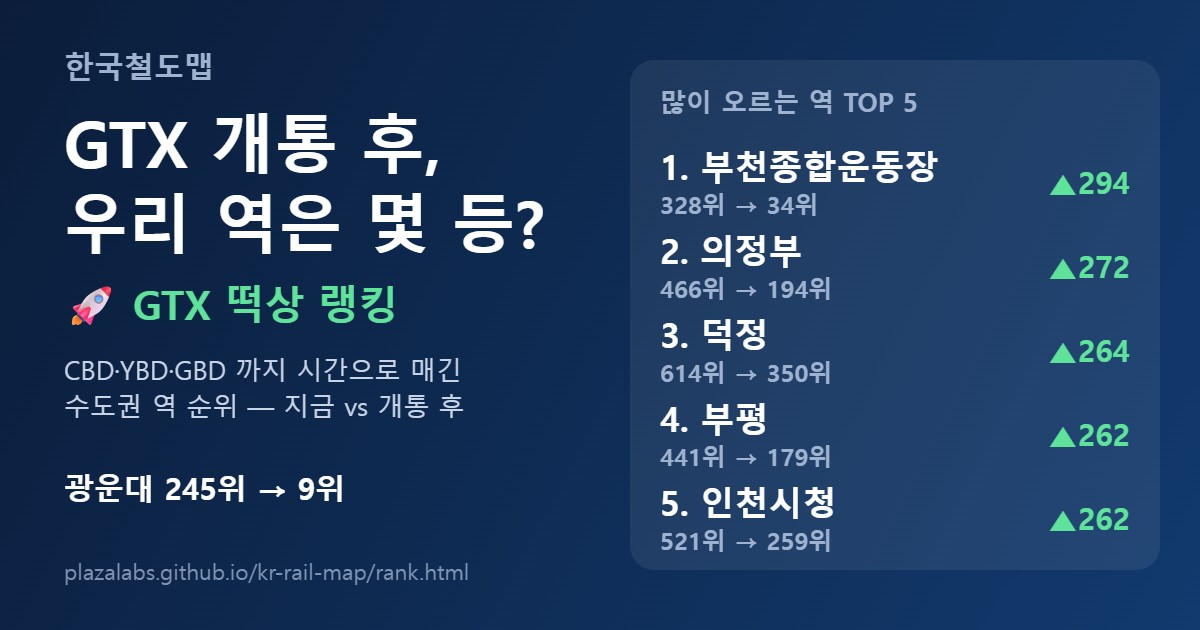
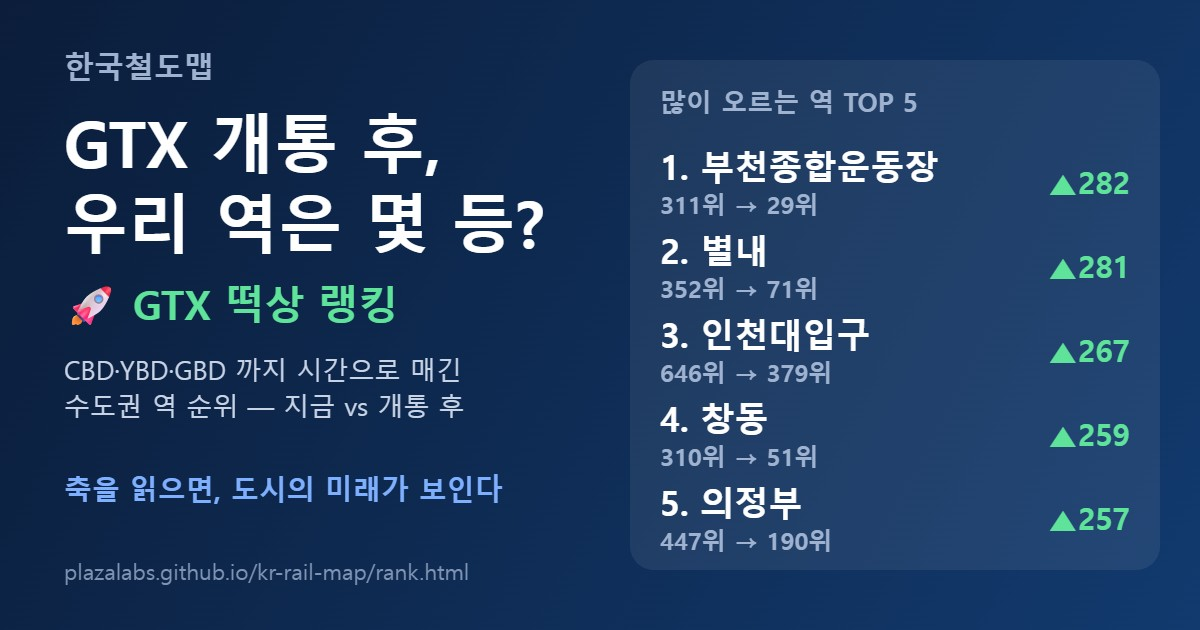
fix: 미리보기 그림(og-rank)에서 광운대 고정 표시 빼고 슬로건 · 휴대폰 노선도 막대 '닫기' 화면 밖 → 줄바꿈 · 떡상 시트 측정은 모션 끝난 뒤 (캐시 v187)
Claude-Session: https://claude.ai/code/session_0191yEh3WGepUkizwUamxitS

diff --git a/data/build_og_rank.js b/data/build_og_rank.js
@@ -15,17 +15,17 @@ const RT = require(path.join(ROOT, 'js/rank.js'));
 const doc = JSON.parse(fs.readFileSync(path.join(ROOT, 'data/rank.json'), 'utf8'));
 const c = RT.compute(doc, { weight: 'avg', region: 'capital' });
 const top = RT.sortRows(c.rows, 'rise').filter(r => !r.isNew).slice(0, 5).map(r => ({ n: r.name, a: r.now.rank, b: r.aft.rank, d: r.change }));
-const kw = c.rows.find(r => r.name === '광운대');
+// 특정 역을 앞세우지 않는다(중립, 2026-11-14) — 예전엔 광운대 한 역을 크게 보여 줬다. 그 자리에 슬로건
 
 const html = `<!doctype html><meta charset="utf-8"><body style="margin:0"><canvas id="c" width="1200" height="630"></canvas><script>
-const T = ${JSON.stringify(top)}, K = ${JSON.stringify(kw ? { a: kw.now.rank, b: kw.aft.rank } : null)};
+const T = ${JSON.stringify(top)};
 const g = document.getElementById('c').getContext('2d'), F = '"Malgun Gothic","Apple SD Gothic Neo",sans-serif';
 const bg = g.createLinearGradient(0, 0, 1200, 630); bg.addColorStop(0, '#0b1d3a'); bg.addColorStop(1, '#123a6e'); g.fillStyle = bg; g.fillRect(0, 0, 1200, 630);
 g.fillStyle = '#9fb3d1'; g.font = '600 30px ' + F; g.fillText('한국철도맵', 64, 78);
 g.fillStyle = '#fff'; g.font = '800 64px ' + F; g.fillText('GTX 개통 후,', 64, 168); g.fillText('우리 역은 몇 등?', 64, 248);
 g.fillStyle = '#5fe39a'; g.font = '800 40px ' + F; g.fillText('🚀 GTX 떡상 랭킹', 64, 320);
 g.fillStyle = '#c8d3e6'; g.font = '500 26px ' + F; g.fillText('CBD·YBD·GBD 까지 시간으로 매긴', 64, 380); g.fillText('수도권 역 순위 — 지금 vs 개통 후', 64, 416);
-if (K) { g.fillStyle = '#fff'; g.font = '700 30px ' + F; g.fillText('광운대 ' + K.a + '위 → ' + K.b + '위', 64, 500); }
+g.fillStyle = '#7fb0ff'; g.font = '700 28px ' + F; g.fillText('축을 읽으면, 도시의 미래가 보인다', 64, 500);
 g.fillStyle = '#7f93b3'; g.font = '500 22px ' + F; g.fillText('plazalabs.github.io/kr-rail-map/rank.html', 64, 580);
 // 오른쪽: 많이 오르는 TOP 5
 const X = 660; g.fillStyle = 'rgba(255,255,255,.07)'; g.beginPath(); g.roundRect ? g.roundRect(X - 30, 60, 530, 510, 24) : g.rect(X - 30, 60, 530, 510); g.fill();

diff --git a/tests/e2e/rocket-panel.e2e.js b/tests/e2e/rocket-panel.e2e.js
@@ -189,6 +189,8 @@ const overlap = (a, c) => !(a.right <= c.left || a.left >= c.right || a.bottom <
   await m.evaluate(`document.getElementById('rocket-btn').click()`);
   await until(m, `!!document.querySelector('#rocket-panel .rkp-row')`);
   await sleep(1300);
+  // 떠오름 모션(kr-sheet-in, 24px)이 백그라운드 크롬에서 멈춰 있으면 24px 아래로 재진다 — 모션을 끝낸 뒤 잰다 (2026-11-14)
+  await m.evaluate(`document.getAnimations().forEach(a => { try { a.finish(); } catch (e) {} }); true`); await sleep(100);
   const mb = await m.evaluate(`(() => { const p = document.getElementById('rocket-panel').getBoundingClientRect(); const t = ['tabbar', 'toolbar'].map(id => document.getElementById(id)).find(e => e && getComputedStyle(e).display !== 'none').getBoundingClientRect();   /* 아래 바 = 탭 바 (작업 1) */
     const bg = getComputedStyle(document.getElementById('rocket-panel')).backgroundColor;
     return { p: { left: p.left, right: p.right, top: p.top, bottom: p.bottom, h: p.height }, tbTop: t.top, vw: innerWidth, vh: innerHeight, bg, grip: !!document.querySelector('.rkp-grip').offsetParent }; })()`);

diff --git a/tests/neutral-examples.test.js b/tests/neutral-examples.test.js
@@ -18,5 +18,9 @@ for (const f of files) {
 }
 check('입력칸 예시에 광운대·노원구 없음', bad.length === 0, bad);
 check('순위표·떡상 패널·게시판 예시는 광화문', ['rank.html', 'js/rocket-panel.js', 'board.html'].every(f => /placeholder="[^"]*광화문/.test(fs.readFileSync(path.join(ROOT, f), 'utf8'))));
+// 링크 미리보기·공유 그림을 그리는 코드에 특정 역을 박아 넣지 않는다 (og-rank 에 광운대가 크게 있던 것, 2026-11-14)
+const drawers = ['data/build_og_rank.js', 'js/station-share.js'];
+const pinned = drawers.filter(f => /['"`](광운대|노원)['"`]|fillText\([^)]*(광운대|노원)/.test(fs.readFileSync(path.join(ROOT, f), 'utf8')));
+check('미리보기·공유 그림 코드에 광운대·노원 고정 없음', pinned.length === 0, pinned);
 console.log(`\n결과: ${pass} 통과 / ${fail} 실패`);
 process.exit(fail ? 1 : 0);

diff --git a/css/style.css b/css/style.css
@@ -855,7 +855,10 @@ body[data-theme="pink"] .rc-nf.hot .rc-nf-delta { color: #c9264b; }
 .dg-legend i { width: 8px; height: 8px; border-radius: 50%; display: inline-block; }
 
 @media (max-width: 640px) {
-  .dg-bar { gap: 6px; padding: 8px 10px; }
+  /* 2026-11-14: 노선 고르기(select)가 길어 휴대폰에서 '닫기'가 화면 밖(392px)으로 밀렸다 → 고르기 폭 제한·버튼 줄바꿈 금지·넘치면 둘째 줄 */
+  .dg-bar { gap: 6px; padding: 8px 10px; flex-wrap: wrap; row-gap: 6px; }
+  .dg-bar button { white-space: nowrap; }
+  .dg-bar select { max-width: 30vw; }
   .dg-bar .dg-hint { display: none; }
   .dg-bar .dg-title { font-size: var(--fs-sm); }
   .dg-bar button { padding: 6px 9px; font-size: var(--fs-xs); }

diff --git a/sw.js b/sw.js
@@ -4,8 +4,8 @@
  *  - GeoJSON 데이터: Cache First (최초 로드 후 캐시)
  *  - 지도 타일: Network First (오프라인이면 캐시된 타일만, 최대 200개)
  */
-const APP_CACHE = 'kr-rail-map-app-v186';
-const DATA_CACHE = 'kr-rail-map-data-v186';
+const APP_CACHE = 'kr-rail-map-app-v187';
+const DATA_CACHE = 'kr-rail-map-data-v187';
 const TILE_CACHE = 'kr-rail-map-tiles-v1';
 const MAX_TILE_ENTRIES = 200;
 
